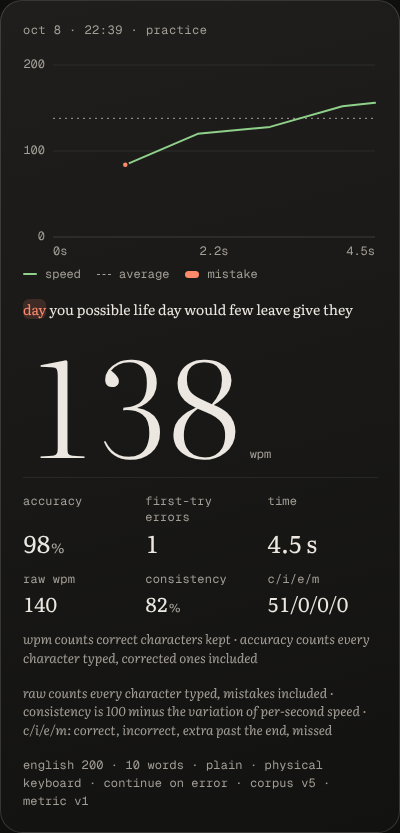
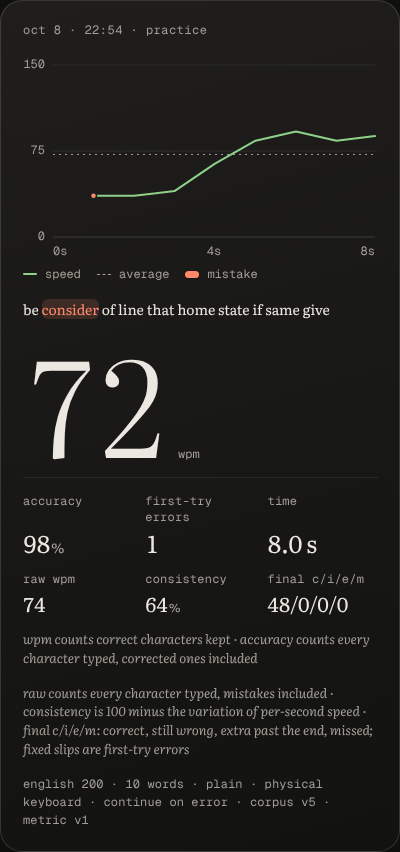
Count blocked keys in raw stats, pace words by kept keys, label final c/i/e/m
Raw wpm and consistency now include keys held back by stop-on-error. Word pace is timed by the
keystrokes kept at the finish, so a fixed slip no longer inflates it. The breakdown is labelled
"final c/i/e/m" and its definition says fixed slips are first-try errors. The run card unsticks
below 1080px tall, since it now runs to about 925px. Screenshots are written to docs only with
SCREENSHOTS=1 and were regenerated at 75 ms per key.

Claude-Session: https://claude.ai/code/session_01SaBNo9RHRaTR8cCUjK1iLD

diff --git a/e2e/run-card-stats.spec.js b/e2e/run-card-stats.spec.js
@@ -1,22 +1,23 @@
 // Run card: raw wpm, consistency, the character breakdown and the static words list.
 import { test, expect, openApp, passageText, typeInto, chooseWords } from './fixtures.js';
 
-const shots = 'docs/screenshots/run-card-stats';
+// Committed screenshots are rewritten only with SCREENSHOTS=1; normal runs keep them in the test output.
+const shot = (testInfo, name) => (process.env.SCREENSHOTS ? `docs/screenshots/run-card-stats/${name}` : testInfo.outputPath(name));
 
-// A 10-word run typed slowly enough (>3 s) for consistency, with one letter missed and fixed.
+// A 10-word run typed at a realistic pace (>3 s, enough for consistency), one letter missed and fixed.
 async function finishRun(page) {
   await chooseWords(page, 10);
   const text = await passageText(page);
   const at = [...text].findIndex((char, index) => index > 1 && /[a-z]/.test(char));
   const miss = text[at] === 'x' ? 'z' : 'x';
-  await typeInto(page, text.slice(0, at) + miss, '#typing-input', { delay: 70 });
+  await typeInto(page, text.slice(0, at) + miss, '#typing-input', { delay: 75 });
   await page.keyboard.press('Backspace');
-  await page.keyboard.type(text.slice(at), { delay: 70 });
+  await page.keyboard.type(text.slice(at), { delay: 75 });
   await expect(page.locator('body')).toHaveAttribute('data-view', 'results');
   return { text, at };
 }
 
-test('the run card shows raw wpm, consistency, c/i/e/m and the words typed', async ({ page }) => {
+test('the run card shows raw wpm, consistency, c/i/e/m and the words typed', async ({ page }, testInfo) => {
   await page.setViewportSize({ width: 1280, height: 800 });
   await page.emulateMedia({ colorScheme: 'dark' });
   await openApp(page);
@@ -26,9 +27,15 @@ test('the run card shows raw wpm, consistency, c/i/e/m and the words typed', asy
   const raw = Number(await page.locator('#result-raw').textContent());
   expect(raw).toBeGreaterThanOrEqual(Number(await page.locator('#result-wpm').textContent()));
   await expect(page.locator('#result-consistency')).toHaveText(/^\d+$/);
+  // The breakdown describes the finished text: the fixed slip is a first-try error, not "incorrect".
+  await expect(page.locator('#result-errors')).toHaveText('1');
   await expect(page.locator('#result-chars')).toHaveText(new RegExp(`^${text.length}/0/0/0$`));
-  await expect(page.locator('.run-card-more dt')).toHaveText(['raw wpm', 'consistency', 'c/i/e/m']);
+  await expect(page.locator('.run-card-more dt')).toHaveText(['raw wpm', 'consistency', 'final c/i/e/m']);
   await expect(page.locator('.run-card .metric-note').nth(1)).toContainText('consistency is 100 minus');
+  await expect(page.locator('.run-card .metric-note').nth(1)).toContainText('still wrong');
+  await expect(page.locator('.run-card .metric-note').nth(1)).toContainText('fixed slips are first-try errors');
+  // At 800 px tall the card is taller than the space below the dock, so it scrolls with the page.
+  expect(await page.locator('#run-card').evaluate((node) => getComputedStyle(node).position)).toBe('static');
 
   const words = page.locator('#result-words span');
   await expect(words).toHaveText(text.split(' '));
@@ -49,21 +56,26 @@ test('the run card shows raw wpm, consistency, c/i/e/m and the words typed', asy
   await page.waitForTimeout(600);
   await page.evaluate(() => window.scrollTo(0, 0));
   const clip = await page.locator('#run-card').boundingBox();
-  await page.screenshot({ path: `${shots}/run-card-dark.png`, fullPage: true, clip });
+  await page.screenshot({ path: shot(testInfo, 'run-card-dark.png'), fullPage: true, clip });
   await page.emulateMedia({ colorScheme: 'light' });
-  await page.screenshot({ path: `${shots}/run-card-light.png`, fullPage: true, clip });
+  await page.screenshot({ path: shot(testInfo, 'run-card-light.png'), fullPage: true, clip });
+
+  // On a tall screen the whole card fits below the dock, so it sticks again.
+  await page.setViewportSize({ width: 1280, height: 1200 });
+  expect(await page.locator('#run-card').evaluate((node) => getComputedStyle(node).position)).toBe('sticky');
 });
 
 test.describe('phone', () => {
   test.use({ viewport: { width: 390, height: 844 }, hasTouch: true, isMobile: true });
 
-  test('the secondary row and words list fit at 390 px', async ({ page }) => {
+  test('the secondary row and words list fit at 390 px', async ({ page }, testInfo) => {
     await page.emulateMedia({ colorScheme: 'dark' });
     await openApp(page);
     await finishRun(page);
     await expect(page.locator('#result-consistency')).toHaveText(/^\d+$/);
     expect(await page.evaluate(() => document.documentElement.scrollWidth - document.documentElement.clientWidth)).toBeLessThanOrEqual(0);
+    // The fixed bottom dock is hidden for the capture only, so it never covers the card's foot.
     await page.waitForTimeout(600);
-    await page.locator('#run-card').screenshot({ path: `${shots}/run-card-mobile.png` });
+    await page.locator('#run-card').screenshot({ path: shot(testInfo, 'run-card-mobile.png'), style: '.dock-zone { visibility: hidden; }' });
   });
 });

diff --git a/src/typing.js b/src/typing.js
@@ -369,19 +369,26 @@ export function compareAttempts(before, after) {
 
 // Secondary run-card stats, derived from the event log only. Presentational: they never feed
 // the versioned wpm/accuracy contract, bests, comparisons or pattern memory.
-export function rawWpm(replay) {
-  return replay.elapsedMs > 0 ? Math.round(replay.insertions / 5 / (replay.elapsedMs / 60000)) : 0;
+
+// Every printable key pressed, including keys held back while stop-on-error waits for a fix.
+function keystrokes(attempt) {
+  return (attempt.events || []).filter((event) => (event.type === 'insert' || event.type === 'blocked-insert') && printable(event.text));
+}
+
+export function rawWpm(attempt, replay = replayAttempt(attempt)) {
+  const typed = keystrokes(attempt).reduce((sum, event) => sum + [...event.text].length, 0);
+  return replay.elapsedMs > 0 ? Math.round(typed / 5 / (replay.elapsedMs / 60000)) : 0;
 }
 
 // 100 − coefficient of variation of per-second raw speed, over whole seconds; null under 3 s.
 export function consistency(attempt, replay = replayAttempt(attempt)) {
-  const inserts = (attempt.events || []).filter((event) => event.type === 'insert' && printable(event.text));
-  if (!inserts.length) return null;
-  const start = attempt.startedAt ?? inserts[0].offsetMs;
+  const keys = keystrokes(attempt);
+  if (!keys.length) return null;
+  const start = attempt.startedAt ?? keys[0].offsetMs;
   const seconds = Math.floor(replay.elapsedMs / 1000);
   if (seconds < 3) return null;
   const counts = new Array(seconds).fill(0);
-  for (const event of inserts) {
+  for (const event of keys) {
     const second = Math.floor((event.offsetMs - start) / 1000);
     if (second >= 0 && second < seconds) counts[second] += [...event.text].length;
   }
@@ -391,8 +398,9 @@ export function consistency(attempt, replay = replayAttempt(attempt)) {
   return Math.round(Math.min(100, Math.max(0, 100 - (sd / mean) * 100)));
 }
 
-// correct / incorrect in the kept text; extra = keystrokes past the passage end; missed = letters
-// left untyped inside the last word the run reached.
+// The finished text, letter by letter: correct and incorrect (still wrong at the finish) in the
+// kept text; extra = keystrokes past the passage end; missed = letters left untyped inside the
+// last word the run reached. Slips fixed along the way are first-try errors, not incorrect.
 export function characterBreakdown(attempt, replay = replayAttempt(attempt)) {
   const target = attempt.text;
   const { typed } = replay;
@@ -417,11 +425,31 @@ export function characterBreakdown(attempt, replay = replayAttempt(attempt)) {
   return { correct, incorrect: typed.length - correct, extra, missed: Math.max(0, reached - typed.length) };
 }
 
+// When each letter still there at the finish was typed, mirroring replayAttempt's kept text.
+function keptTimes(attempt) {
+  const times = [];
+  for (const event of attempt.events || []) {
+    if (event.type === 'delete') {
+      times.splice(Math.max(0, times.length - Math.max(1, event.count || 1)));
+      continue;
+    }
+    if (event.type !== 'insert' || !printable(event.text)) continue;
+    for (const _char of event.text) {
+      const position = Number.isInteger(event.position) ? event.position : times.length;
+      if (position >= attempt.text.length) break;
+      if (event.accepted !== false) times.push(event.offsetMs);
+    }
+  }
+  return times;
+}
+
 // The passage words the run reached, flagged if any first try or kept letter in them missed, with
-// the pace from the previous word's space (or the first keystroke) to the word's last letter.
+// the pace from the previous word's space (or the first keystroke) to the word's last letter,
+// timed by the keystrokes kept at the finish so corrections count against the pace.
 export function wordHistory(attempt, replay = replayAttempt(attempt)) {
   const target = attempt.text;
   const firsts = new Map(replay.firstAttempts.map((item) => [item.position, item]));
+  const times = keptTimes(attempt);
   const words = [];
   const pattern = /\S+/gu;
   let match;
@@ -433,9 +461,7 @@ export function wordHistory(attempt, replay = replayAttempt(attempt)) {
       if (firsts.get(i)?.correct === false || replay.typed[i] !== target[i]) wrong = true;
     }
     const anchor = start > 0 ? start - 1 : start;
-    const from = firsts.get(anchor);
-    const to = firsts.get(end);
-    const durationMs = from && to ? to.offsetMs - from.offsetMs : 0;
+    const durationMs = times[anchor] !== undefined && times[end] !== undefined ? times[end] - times[anchor] : 0;
     words.push({
       word: match[0],
       wrong,

diff --git a/tests/typing.test.js b/tests/typing.test.js
@@ -26,9 +26,18 @@ function evenRun(text, msPerChar, misses = {}) {
   return attempt;
 }
 
-test('raw wpm counts every typed character, errors included', () => {
-  assert.equal(rawWpm({ insertions: 50, elapsedMs: 60000 }), 10);
-  assert.equal(rawWpm({ insertions: 0, elapsedMs: 0 }), 0);
+test('raw wpm counts every key typed, errors and stop-on-error blocked keys included', () => {
+  const attempt = createAttempt({ id: 'w', text: 'a'.repeat(45), textId: 't', conditions: {} });
+  attempt.events = [
+    ...Array.from({ length: 45 }, (_, i) => ({ type: 'insert', text: 'a', position: i, accepted: true, offsetMs: i * 1000 })),
+    ...Array.from({ length: 5 }, () => ({ type: 'blocked-insert', text: 'b', position: 44, offsetMs: 44500 })),
+  ];
+  attempt.startedAt = 0;
+  attempt.endedAt = 60000;
+  // 50 keys in a minute = 10 wpm; the metric's insertions ignore the 5 blocked keys.
+  assert.equal(replayAttempt(attempt).insertions, 45);
+  assert.equal(rawWpm(attempt), 10);
+  assert.equal(rawWpm(createAttempt({ id: 'e', text: 'a', textId: 't', conditions: {} })), 0);
 });
 
 test('consistency is 100 minus the CV of per-second speed, and empty under three seconds', () => {
@@ -41,6 +50,10 @@ test('consistency is 100 minus the CV of per-second speed, and empty under three
   uneven.startedAt = 0;
   uneven.endedAt = 3000;
   assert.equal(consistency(uneven), 6);
+  // Keys held back by stop-on-error are still typing: a steady hand stays steady.
+  const stalled = evenRun('a'.repeat(41), 100);
+  for (let i = 20; i < 30; i += 1) stalled.events[i].type = 'blocked-insert';
+  assert.equal(consistency(stalled), 100);
 });
 
 test('character breakdown separates correct, incorrect, extra and missed', () => {
@@ -69,10 +82,24 @@ test('word history flags mistyped words and paces each word', () => {
   assert.equal(wordHistory(partial).length, 2);
 });
 
+test('word pace runs to the kept last letter, so a fixed final slip slows the word', () => {
+  const attempt = createAttempt({ id: 'f', text: 'the cat', textId: 't', conditions: {} });
+  attempt.events = [...'the ca'].map((char, i) => ({ type: 'insert', text: char, offsetMs: i * 100 }));
+  attempt.events.push(
+    { type: 'insert', text: 'x', offsetMs: 600 },
+    { type: 'delete', count: 1, offsetMs: 1500 },
+    { type: 'insert', text: 't', offsetMs: 1600 },
+  );
+  const [, cat] = wordHistory(attempt);
+  assert.equal(cat.wrong, true);
+  // Space at 300 ms to the kept "t" at 1600 ms: 3 characters in 1.3 s ≈ 28 wpm, not 120 from the slip.
+  assert.equal(cat.wpm, 28);
+});
+
 test('the new stats leave the versioned metrics untouched', () => {
   const attempt = evenRun('the cat sat', 200, { 5: 'x' });
   const before = JSON.stringify(replayAttempt(attempt).score);
-  rawWpm(replayAttempt(attempt)); consistency(attempt); characterBreakdown(attempt); wordHistory(attempt);
+  rawWpm(attempt); consistency(attempt); characterBreakdown(attempt); wordHistory(attempt);
   assert.equal(JSON.stringify(replayAttempt(attempt).score), before);
 });
 test('speed counts correct characters at five characters per word', () => {

diff --git a/index.html b/index.html
@@ -249,10 +249,10 @@
             <dl class="run-card-facts run-card-more">
               <div title="Every character typed, mistakes included, per five characters per minute"><dt>raw wpm</dt><dd id="result-raw" class="num">—</dd></div>
               <div title="100 minus the variation of your per-second raw speed; needs 3 seconds"><dt>consistency</dt><dd><strong id="result-consistency" class="num">—</strong><b>%</b></dd></div>
-              <div title="Correct / incorrect / extra / missed characters"><dt>c/i/e/m</dt><dd id="result-chars" class="num">—</dd></div>
+              <div title="The finished text: correct / still wrong / extra / missed characters. Slips you fixed count as first-try errors"><dt>final c/i/e/m</dt><dd id="result-chars" class="num">—</dd></div>
             </dl>
             <p class="metric-note">wpm counts correct characters kept · accuracy counts every character typed, corrected ones included</p>
-            <p class="metric-note">raw counts every character typed, mistakes included · consistency is 100 minus the variation of per-second speed · c/i/e/m: correct, incorrect, extra past the end, missed</p>
+            <p class="metric-note">raw counts every character typed, mistakes included · consistency is 100 minus the variation of per-second speed · final c/i/e/m: correct, still wrong, extra past the end, missed; fixed slips are first-try errors</p>
             <p class="condition-copy" id="result-conditions">english · common words · corpus v3 · metric v1</p>
           </article>
 

diff --git a/src/app.js b/src/app.js
@@ -1056,7 +1056,7 @@ function renderSecondaryStats(completed) {
   const replay = completed.summary;
   const steady = consistency(completed, replay);
   const chars = characterBreakdown(completed, replay);
-  $('result-raw').textContent = rawWpm(replay);
+  $('result-raw').textContent = rawWpm(completed, replay);
   $('result-consistency').textContent = steady ?? '—';
   $('result-chars').textContent = `${chars.correct}/${chars.incorrect}/${chars.extra}/${chars.missed}`;
   $('result-words').replaceChildren(...wordHistory(completed, replay).flatMap((item, i) => {

diff --git a/src/styles.css b/src/styles.css
@@ -1892,8 +1892,9 @@ body[data-focus-mode="true"][data-view="practice"] .exit-focus { display: inline
   .challenge-toast { top: calc(var(--space-4) + 2 * (58px + var(--space-2))); }
 }
 
-/* A card taller than the viewport cannot stick without hiding its foot. */
-@media (max-height: 720px) {
+/* A card taller than the viewport cannot stick without hiding its foot. With the secondary facts
+   and a full words list the card runs to about 925px, so it sticks (104px down) only on tall screens. */
+@media (max-height: 1080px) {
   .run-card { position: static; }
 }
 
